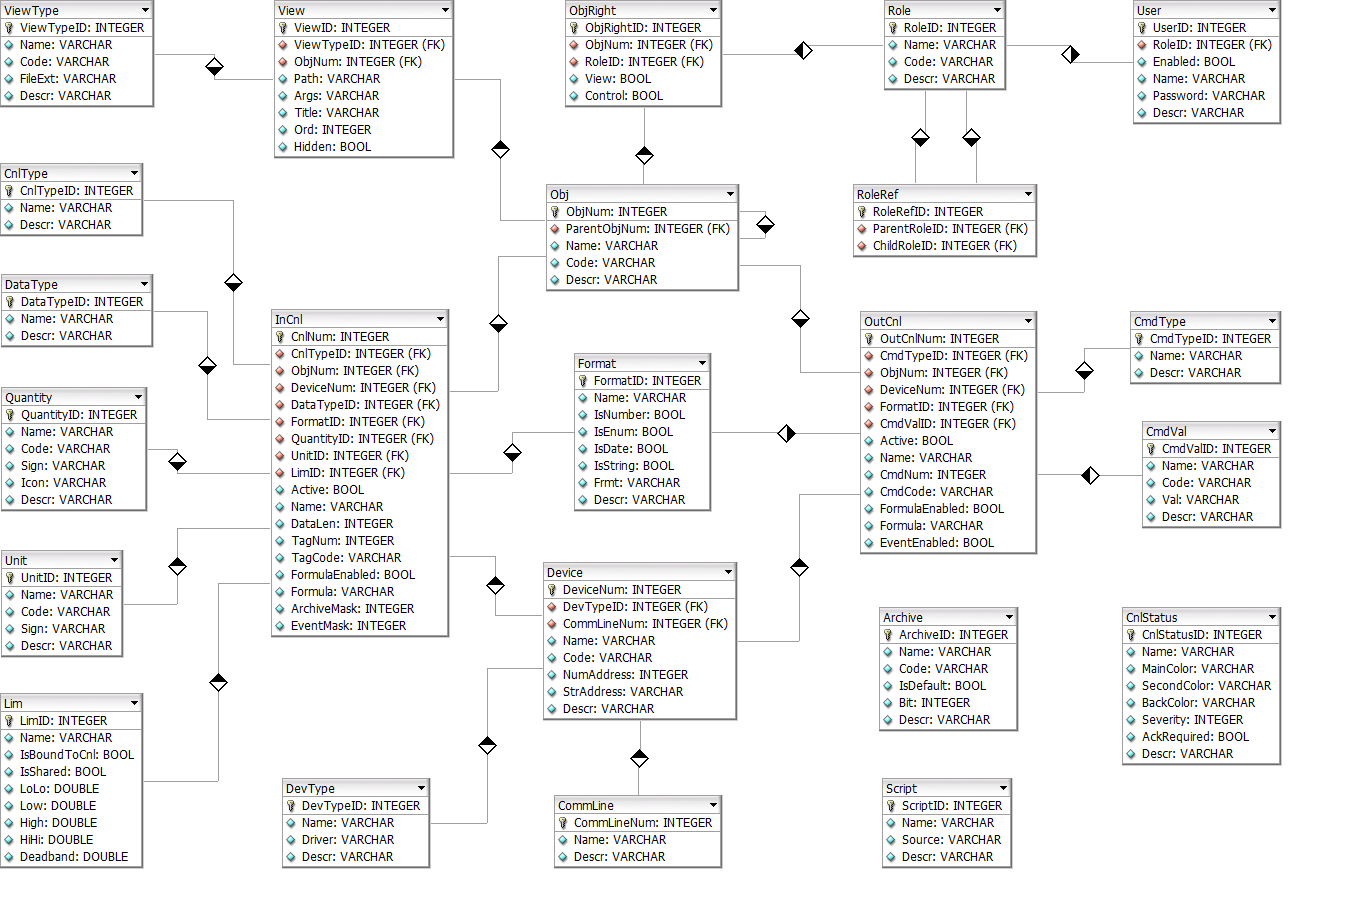
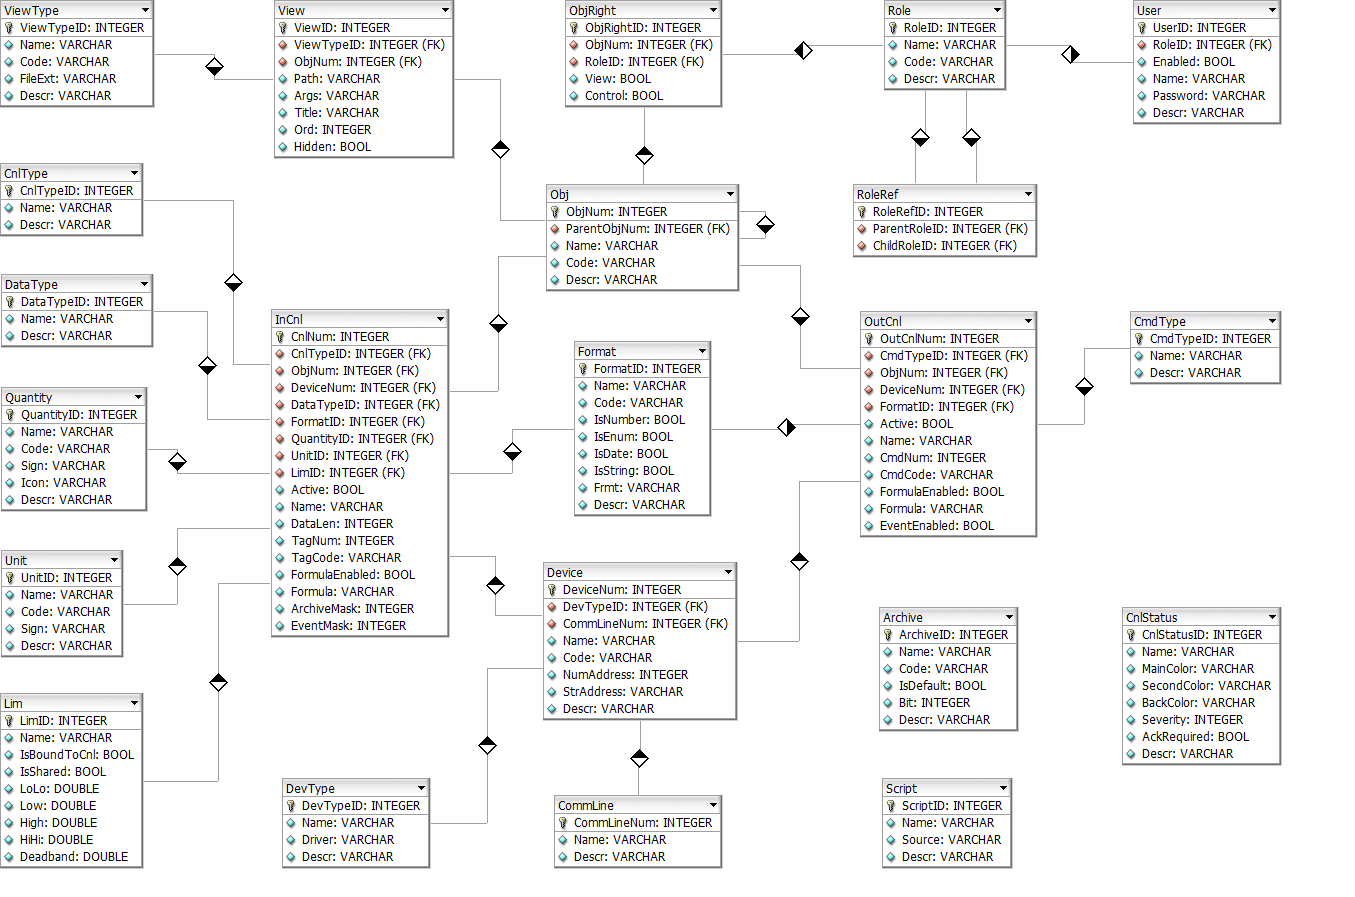
Base: move enums from Unit and CmdVal to Format table

diff --git a/ScadaData/ScadaData/Data/Models/BaseDataSet.cs b/ScadaData/ScadaData/Data/Models/BaseDataSet.cs
@@ -55,11 +55,6 @@ namespace Scada.Data.Models
         public BaseTable<CmdType> CmdTypeTable { get; protected set; }
 
         /// <summary>
-        /// Gets the command value table.
-        /// </summary>
-        public BaseTable<CmdVal> CmdValTable { get; protected set; }
-
-        /// <summary>
         /// Gets the input channel status table.
         /// </summary>
         public BaseTable<CnlStatus> CnlStatusTable { get; protected set; }
@@ -174,7 +169,6 @@ namespace Scada.Data.Models
             {
                 ArchiveTable = new BaseTable<Archive>("Archive", "ArchiveID", CommonPhrases.ArchiveTable),
                 CmdTypeTable = new BaseTable<CmdType>("CmdType", "CmdTypeID", CommonPhrases.CmdTypeTable),
-                CmdValTable = new BaseTable<CmdVal>("CmdVal", "CmdValID", CommonPhrases.CmdValTable),
                 CnlStatusTable = new BaseTable<CnlStatus>("CnlStatus", "CnlStatusID", CommonPhrases.CnlStatusTable),
                 CnlTypeTable = new BaseTable<CnlType>("CnlType", "CnlTypeID", CommonPhrases.CnlTypeTable),
                 CommLineTable = new BaseTable<CommLine>("CommLine", "CommLineNum", CommonPhrases.CommLineTable),
@@ -225,7 +219,6 @@ namespace Scada.Data.Models
             AddRelation(ObjTable, OutCnlTable, "ObjNum");
             AddRelation(DeviceTable, OutCnlTable, "DeviceNum");
             AddRelation(FormatTable, OutCnlTable, "FormatID");
-            AddRelation(CmdValTable, OutCnlTable, "CmdValID");
 
             // view table
             AddRelation(ViewTypeTable, ViewTable, "ViewTypeID");

diff --git a/ScadaData/ScadaData/Data/Entities/Format.cs b/ScadaData/ScadaData/Data/Entities/Format.cs
@@ -40,6 +40,8 @@ namespace Scada.Data.Entities
 
         public string Name { get; set; }
 
+        public string Code { get; set; }
+
         public bool IsNumber { get; set; }
 
         public bool IsEnum { get; set; }

diff --git a/ScadaData/ScadaData/Data/Entities/OutCnl.cs b/ScadaData/ScadaData/Data/Entities/OutCnl.cs
@@ -58,8 +58,6 @@ namespace Scada.Data.Entities
 
         public int? FormatID { get; set; }
 
-        public int? CmdValID { get; set; }
-
         public bool EventEnabled { get; set; }
     }
 }
